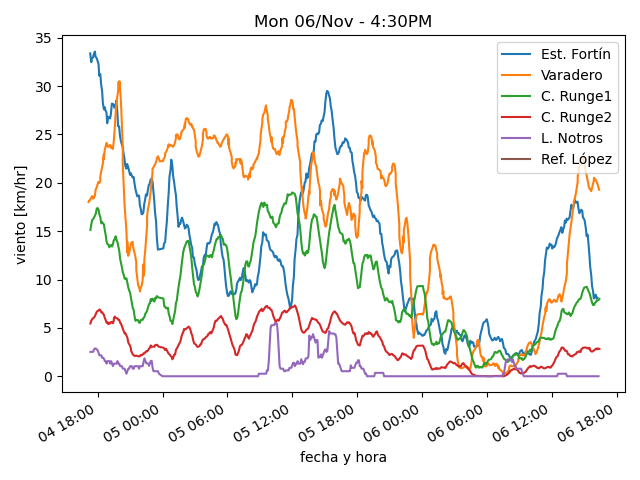
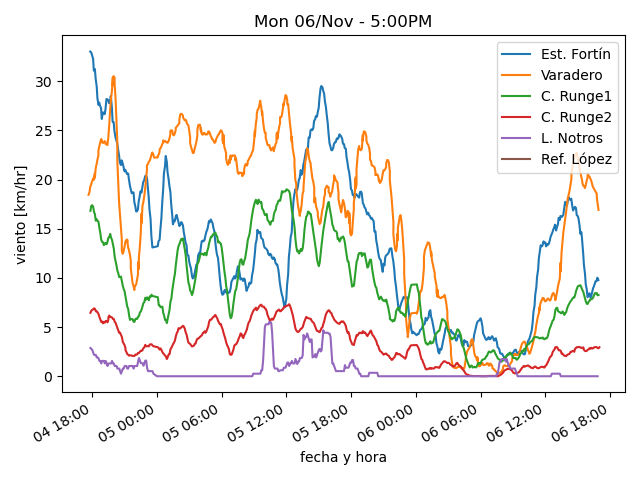
actualiza datos

diff --git a/estaciones/estacion1.html b/estaciones/estacion1.html
@@ -18,7 +18,7 @@
     </tr>
     <tr>
      <td class="stats_data">
-      4:13PM
+      4:54PM
      </td>
     </tr>
     <tr>
@@ -28,37 +28,37 @@
     </tr>
     <tr>
      <td class="stats_data">
-      7.3⁰C
+      6.8⁰C
      </td>
     </tr>
     <tr>
      <td class="stats_data">
-      84.0%
+      81.0%
      </td>
     </tr>
     <tr>
      <td class="stats_data">
-      1011.51hPa
+      1010.84hPa
      </td>
     </tr>
     <tr>
      <td class="stats_data">
-      5.6/8.9 km/hr WSW
+      6.3/9.7 km/hr SSE
      </td>
     </tr>
     <tr>
      <td class="stats_data">
-      0.76 / 0.25 mm
+      0.76 / 0.0 mm
      </td>
     </tr>
     <tr>
      <td class="stats_data">
-      0.8
+      0.6
      </td>
     </tr>
     <tr>
      <td class="stats_data">
-      111.0 W/m²
+      98.0 W/m²
      </td>
     </tr>
    </tbody>

diff --git a/estaciones/estacion2.html b/estaciones/estacion2.html
@@ -18,22 +18,22 @@
     </tr>
     <tr>
      <td class="stats_data">
-      4:22PM
+      4:54PM
      </td>
     </tr>
     <tr>
      <td class="stats_data">
-      9.4⁰C
+      9.6⁰C
      </td>
     </tr>
     <tr>
      <td class="stats_data">
-      7.5⁰C
+      7.6⁰C
      </td>
     </tr>
     <tr>
      <td class="stats_data">
-      88.1%
+      88.0%
      </td>
     </tr>
     <tr>
@@ -43,7 +43,7 @@
     </tr>
     <tr>
      <td class="stats_data">
-      15.6/17.5 km/hr W
+      5.1/8.8 km/hr WSW
      </td>
     </tr>
     <tr>
@@ -53,12 +53,12 @@
     </tr>
     <tr>
      <td class="stats_data">
-      2.0
+      1.0
      </td>
     </tr>
     <tr>
      <td class="stats_data">
-      281.0 W/m²
+      199.5 W/m²
      </td>
     </tr>
    </tbody>

diff --git a/estaciones/estacion3.html b/estaciones/estacion3.html
@@ -18,32 +18,32 @@
     </tr>
     <tr>
      <td class="stats_data">
-      4:24PM
+      4:54PM
      </td>
     </tr>
     <tr>
      <td class="stats_data">
-      9.0⁰C
+      8.9⁰C
      </td>
     </tr>
     <tr>
      <td class="stats_data">
-      7.1⁰C
+      7.0⁰C
      </td>
     </tr>
     <tr>
      <td class="stats_data">
-      87.5%
+      88.0%
      </td>
     </tr>
     <tr>
      <td class="stats_data">
-      1003.12hPa
+      1002.71hPa
      </td>
     </tr>
     <tr>
      <td class="stats_data">
-      5.1/7.7 km/hr NW
+      6.2/8.4 km/hr WNW
      </td>
     </tr>
     <tr>
@@ -58,7 +58,7 @@
     </tr>
     <tr>
      <td class="stats_data">
-      256.3 W/m²
+      239.4 W/m²
      </td>
     </tr>
    </tbody>

diff --git a/estaciones/estacion4.html b/estaciones/estacion4.html
@@ -18,7 +18,7 @@
     </tr>
     <tr>
      <td class="stats_data">
-      4:24PM
+      4:59PM
      </td>
     </tr>
     <tr>
@@ -33,17 +33,17 @@
     </tr>
     <tr>
      <td class="stats_data">
-      83.8%
+      84.0%
      </td>
     </tr>
     <tr>
      <td class="stats_data">
-      1011.92hPa
+      1011.51hPa
      </td>
     </tr>
     <tr>
      <td class="stats_data">
-      1.8/2.7 km/hr SSW
+      1.9/3.2 km/hr SSW
      </td>
     </tr>
     <tr>
@@ -58,7 +58,7 @@
     </tr>
     <tr>
      <td class="stats_data">
-      238.4 W/m²
+      226.3 W/m²
      </td>
     </tr>
    </tbody>

diff --git a/estaciones/estacion5.html b/estaciones/estacion5.html
@@ -18,17 +18,17 @@
     </tr>
     <tr>
      <td class="stats_data">
-      4:20PM
+      4:50PM
      </td>
     </tr>
     <tr>
      <td class="stats_data">
-      10.0⁰C
+      10.6⁰C
      </td>
     </tr>
     <tr>
      <td class="stats_data">
-      7.8⁰C
+      8.4⁰C
      </td>
     </tr>
     <tr>
@@ -38,7 +38,7 @@
     </tr>
     <tr>
      <td class="stats_data">
-      1012.9hPa
+      1012.53hPa
      </td>
     </tr>
     <tr>
